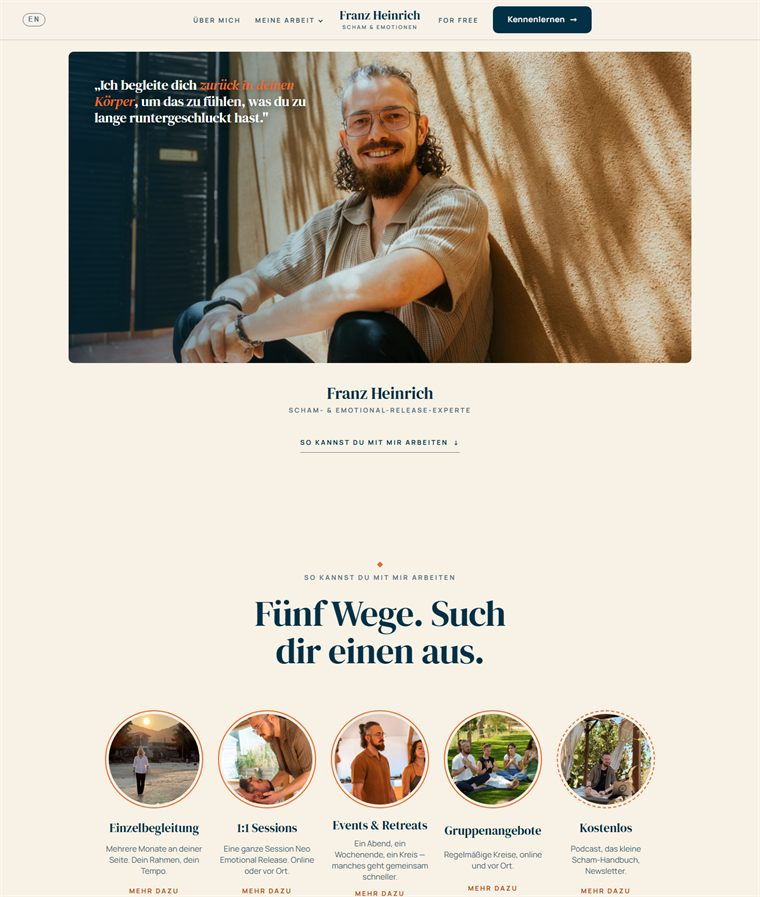
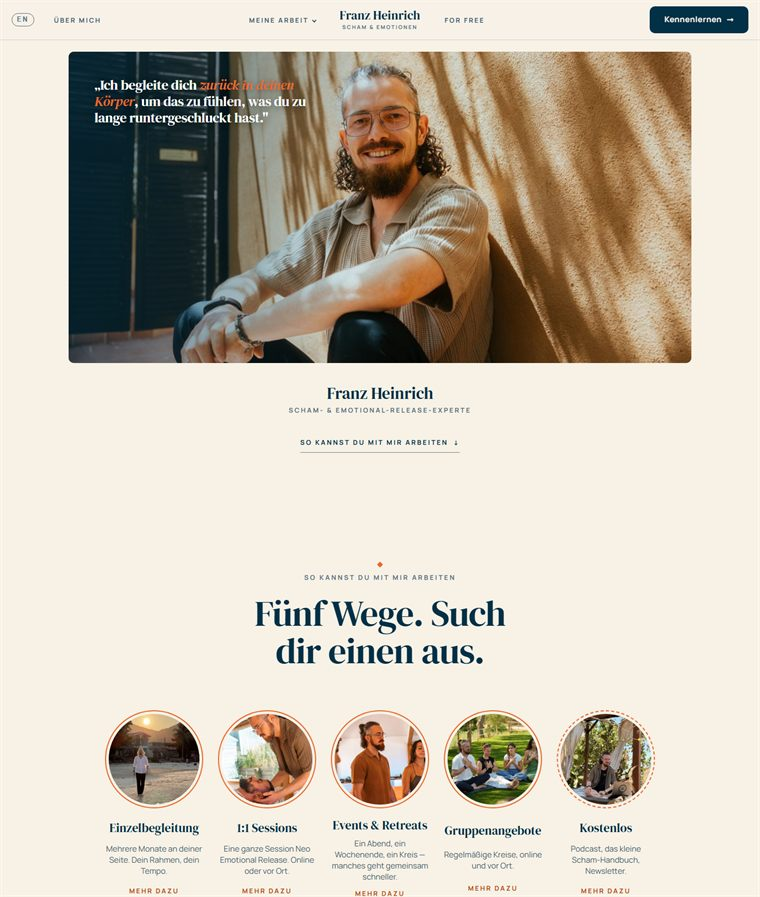
Masthead Desktop weit gespreizt: Spur bis 1800 px, Menuepunkte an die Raender, Marke bleibt mittig

diff --git a/assets/site.css b/assets/site.css
@@ -835,3 +835,17 @@ body.links-navy h1,body.links-navy h2,body.links-navy h3{color:var(--cream)}
   .kopf-zitat{left:clamp(24px,3.4vw,52px);right:auto;bottom:auto;top:clamp(24px,3.4vw,52px);width:min(34%,26rem)}
   .kopf-zitat h1{font-size:clamp(22px,1.35vw+12px,34px);line-height:1.18}
 }
+
+/* ---- 46 · Masthead weit gespreizt (Michael 01.10.2026) --------------------
+   Viel Luft zwischen den Menüpunkten: breitere Spur, Punkte nach außen
+   geschoben (EN ganz links, Kennenlernen ganz rechts), Marke bleibt mittig —
+   das Raster 1fr auto 1fr hält sie unabhängig vom Inhalt der Seiten. */
+@media (min-width:1181px){
+  .nav .wrap{width:min(1800px, 100% - clamp(24px,3vw,56px))}
+  .masthead{gap:clamp(24px,3.2vw,64px)}
+  .mh-side{gap:clamp(20px,2.6vw,48px)}
+  .mh-side-l,.mh-side-r{justify-content:space-between}
+  .mh-side-l .lang{margin-right:0}
+  .mh-side > nav{flex:1}
+  .mh-left,.mh-right{width:100%;justify-content:space-between;gap:clamp(20px,2.6vw,48px)}
+}
